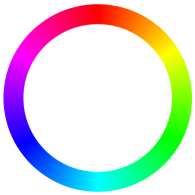
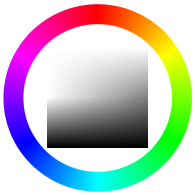
[App][PH]  Color picker better repair

Changed region(s): [[0.2154, 0.2769, 0.7692, 0.7692]]

diff --git a/app/css/farbtastic.css b/app/css/farbtastic.css
@@ -38,7 +38,6 @@
   height: 195px; }
 
 .farbtastic .overlay {
-  display: block !important;
   position: absolute;
   background: url('../../media/image/farbtastic/mask.png') no-repeat; }
 

diff --git a/app/scss/farbtastic.scss b/app/scss/farbtastic.scss
@@ -30,7 +30,6 @@
   height: 195px;
 }
 .farbtastic .overlay {
-  display: block !important;
   position: absolute;
   background: url('../../media/image/farbtastic/mask.png') no-repeat;
 }
